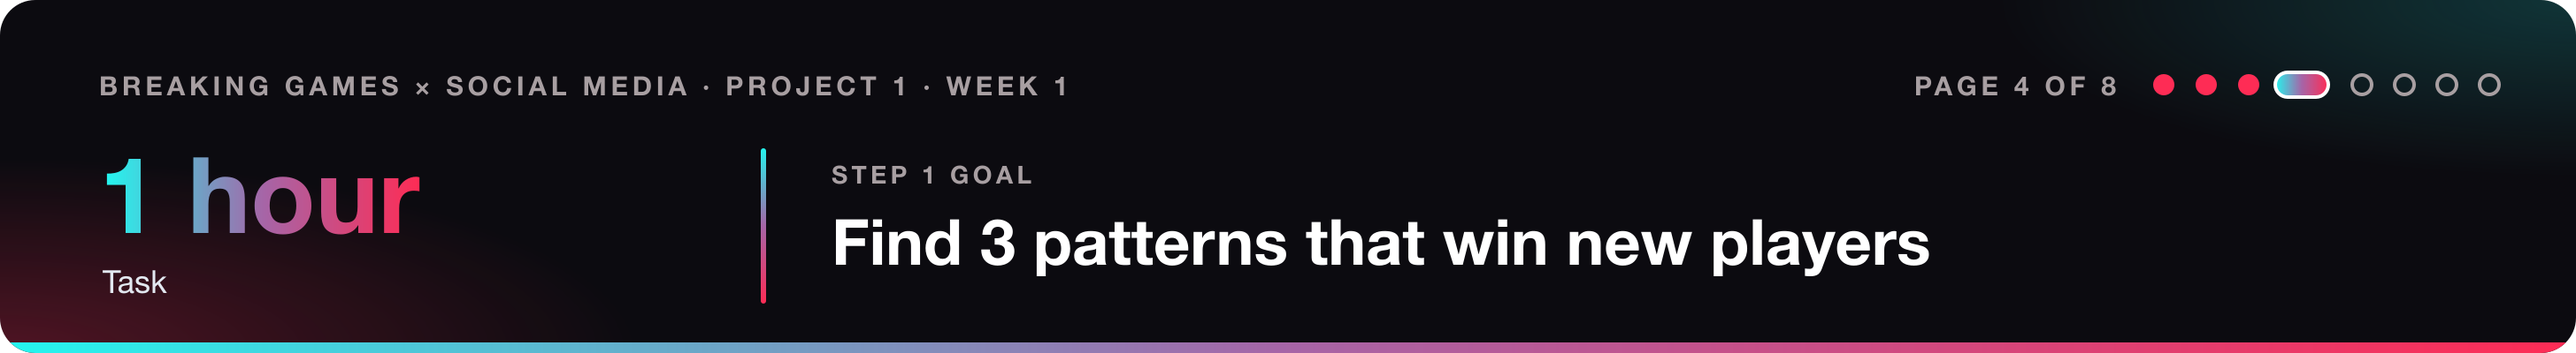
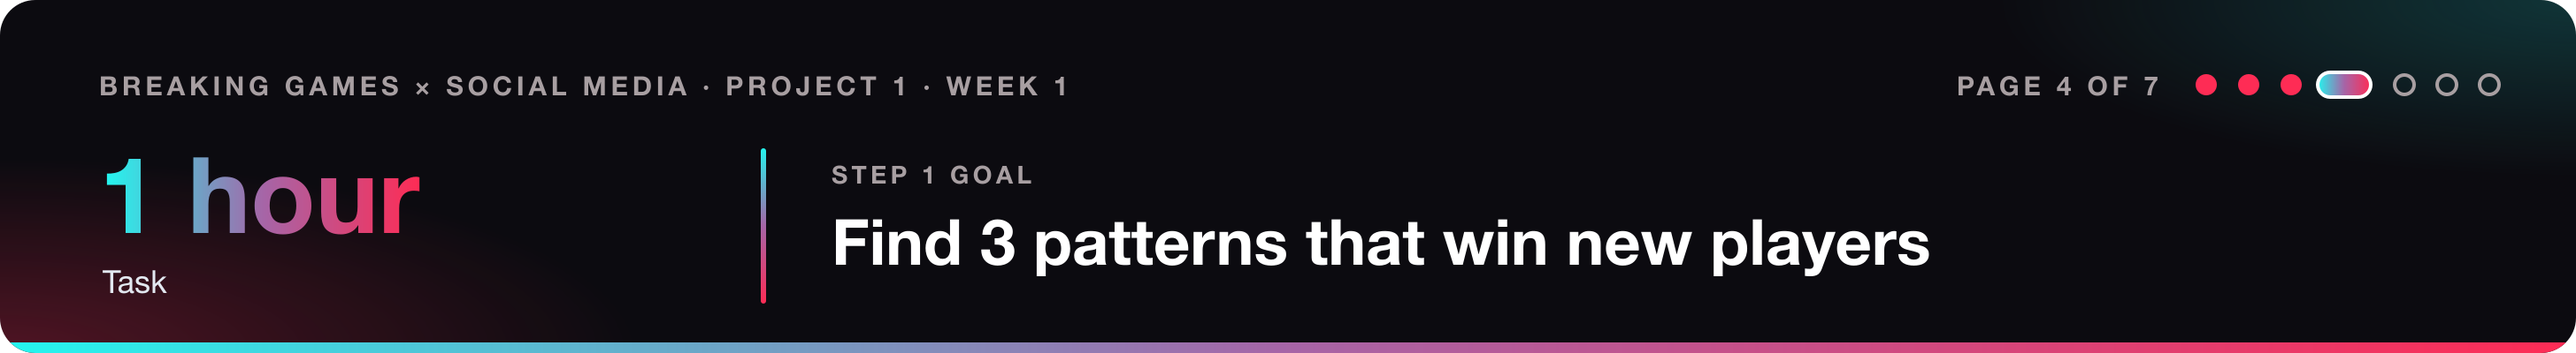
Breaking Games: remove weekly workshare references

Changed region(s): [[0.875, 0.18, 0.9375, 0.3], [0.7188, 0.21, 0.8438, 0.27]]

diff --git a/breaking-games-p1-quick-start.html b/breaking-games-p1-quick-start.html
@@ -226,7 +226,7 @@
       <h2 id="h-3" tabindex="-1">This week: two things</h2>
       <div class="grid two">
         <div class="box"><span class="emoji" aria-hidden="true">🎲</span><h3>Roast, Toast, Fix (about 2 hours)</h3><p>Compare 4 pairs of real posts, a hit and a flop, and name 3 patterns that would win new players.</p></div>
-        <div class="box"><span class="emoji" aria-hidden="true">🎨</span><h3>Mood Board (about 2 hours)</h3><p>3 slides in Canva, Feel, Look and Hooks to Use. Then sum up your week on one workshare slide.</p></div>
+        <div class="box"><span class="emoji" aria-hidden="true">🎨</span><h3>Mood Board (about 1.5 hours)</h3><p>3 slides in Canva, Feel, Look and Hooks to Use.</p></div>
       </div>
       <p><strong>You submit your roast notes when you finish the roast, and your mood board when you finish it.</strong></p>
     </section>
